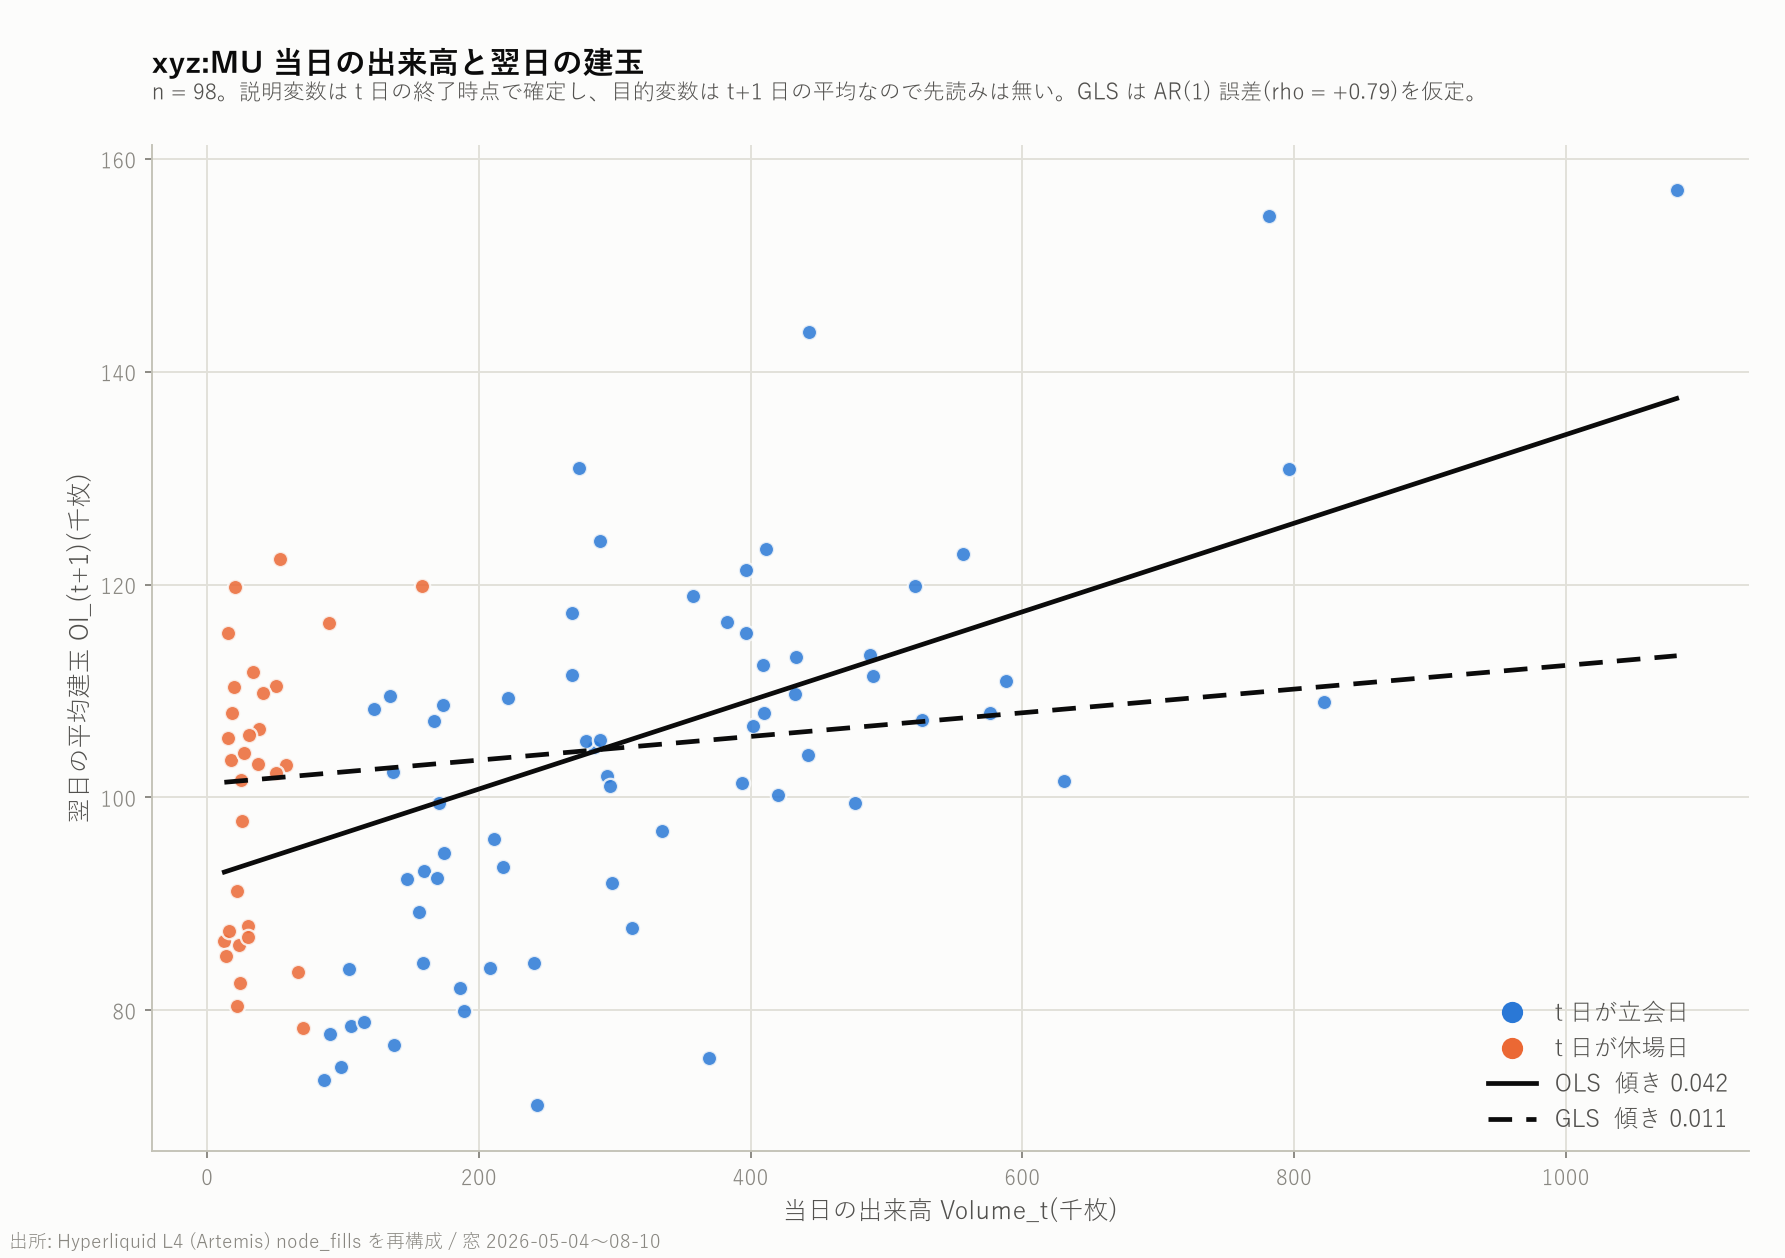
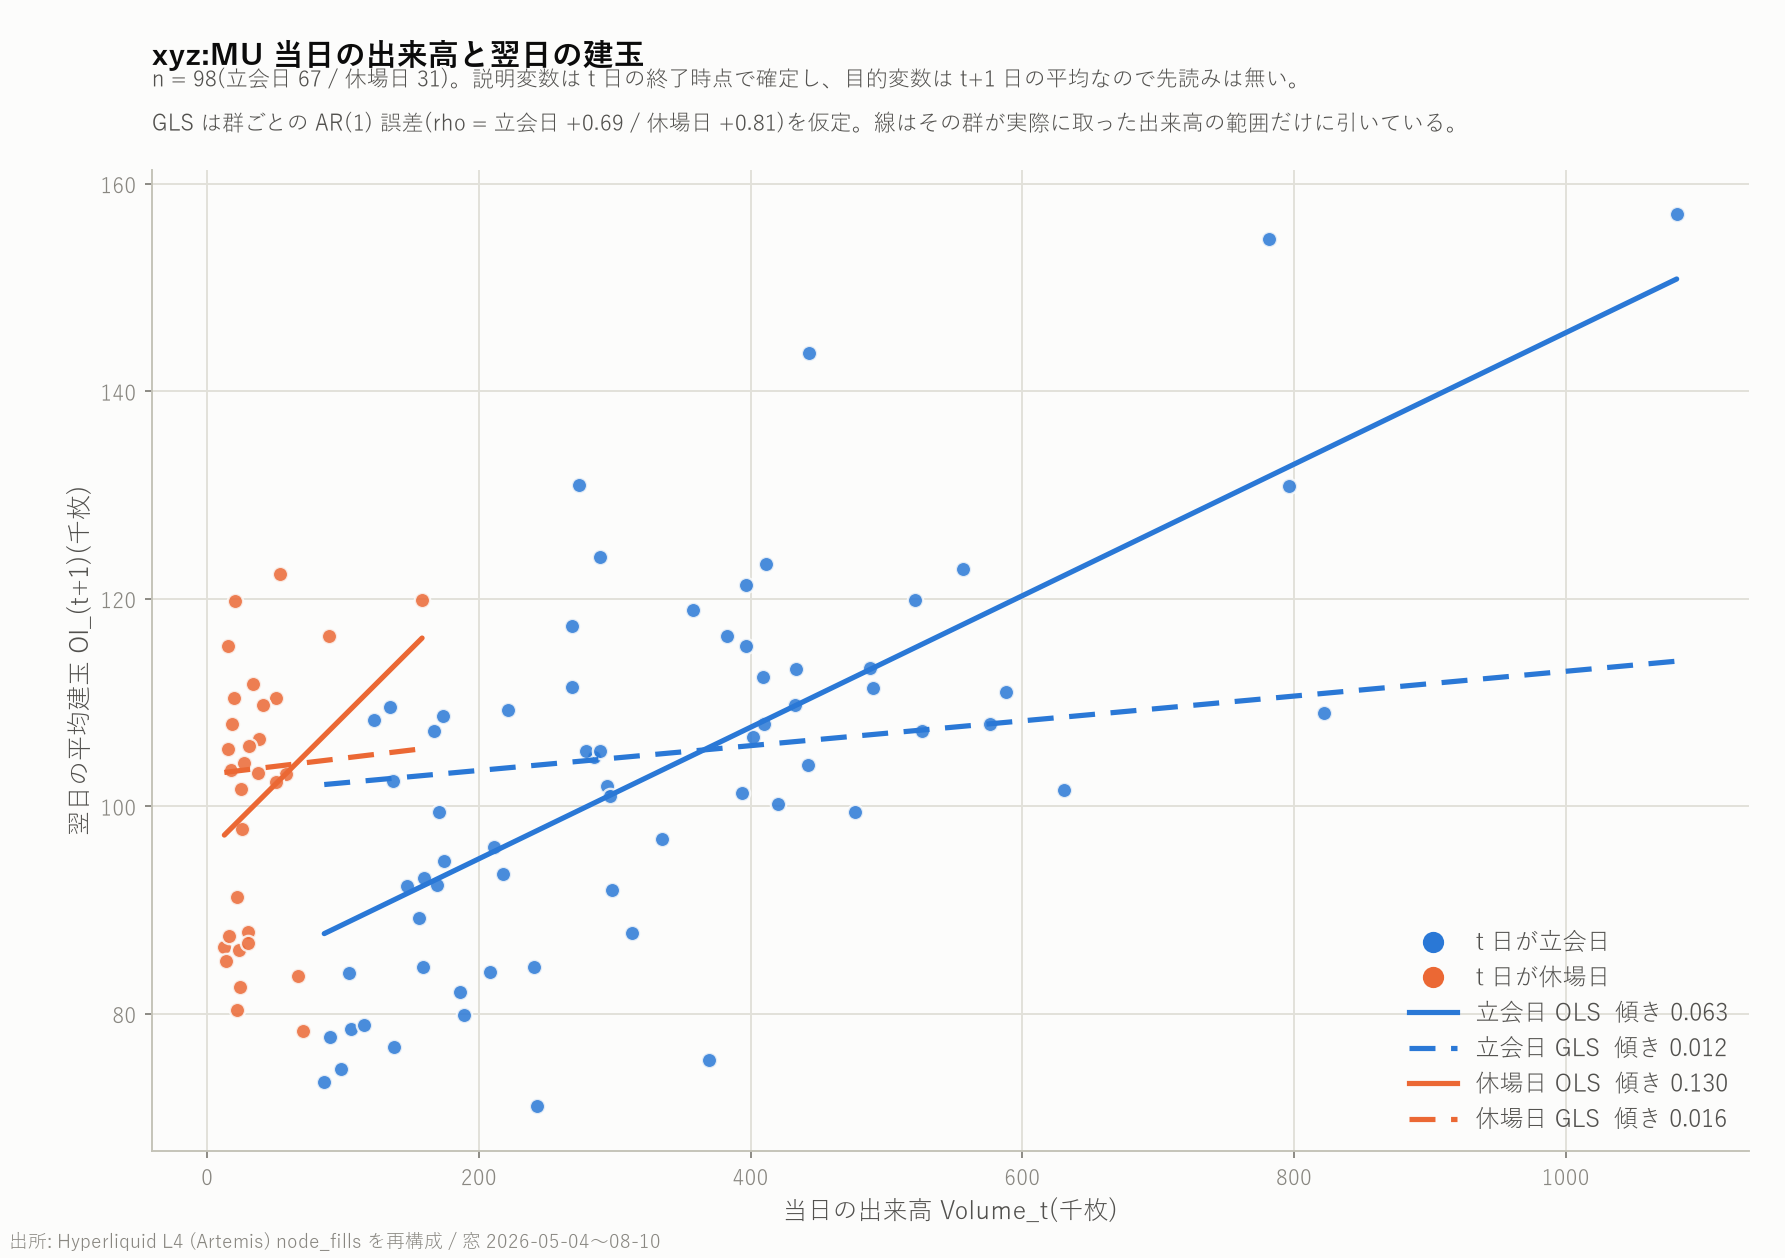
散布図を立会日・休場日それぞれの OLS と GLS に分け、数式の表示崩れを直す
回帰:
- 立会日 67 点と休場日 31 点に分けて当てはめ、4 本の線を引いた。線はその群が
  実際に取った出来高の範囲だけに引き、範囲外への外挿を見せない。
- どちらの群でも OLS と GLS で傾きが 5 倍以上違う(立会日 0.063 -> 0.012、
  休場日 0.131 -> 0.016)。群ごとの GLS はどちらも有意でなくなるが、これは
  標本が 98 から 67 と 31 に減って標準誤差が広がったためで、「関係が無い」
  ことの証拠ではない。この食い違いは隠さずレポートに明記した。

数式の表示:
- GitHub の Markdown は数式より先に強調記法を処理するため、$...$ の中の _ が
  斜体の開始記号として食われ、$\mathrm{Volume}_t$ が $\mathrm{Volume}t$ と
  表示されていた。GitHub 公式の回避策に揃え、インラインは $`...`$、
  ブロックは ```math フェンスへ変換した。
- 積の薄空白 \, がカンマとして描画されていたので普通の空白にした。
- 節番号の繰り上げに伴い古くなっていた「第 5 節」の相互参照を第 4 節へ修正。

Claude-Session: https://claude.ai/code/session_01LRpbaBB6gWtgo4ezmGPdRv

diff --git a/scripts/regress_oi_volume.py b/scripts/regress_oi_volume.py
@@ -105,13 +105,15 @@ def main() -> None:
         mark = "  <- 本来の対応" if k == 0 else ""
         print(f"  k={k:+d}: 傾き {f.params[1]:8.4f}  t {f.tvalues[1]:6.2f}  R2 {f.rsquared:.3f}{mark}")
 
-    # 立会日と休場日で出来高の水準が大きく違うので、群の分離が傾きを作っていないか確かめる
+    # 立会日と休場日で出来高の水準も性質も違うので、群ごとに別々に当てはめる。
+    # ここでの AR(1) は「その群の中で連続する観測」の間の相関を指す。立会日なら
+    # 連続する立会日どうし、休場日なら土・日・土… という並びになる点に注意。
     print()
-    print("=== 群ごとの回帰(群の分離が傾きを作っていないかの確認)===")
-    for lab, m in (("立会日のみ", open_t), ("休場日のみ", ~open_t)):
-        f = sm.OLS(y[m], sm.add_constant(x[m])).fit()
-        print(f"  {lab}(n={int(m.sum()):2d}): 傾き {f.params[1]:8.4f}  t {f.tvalues[1]:6.2f}  "
-              f"p {f.pvalues[1]:.3g}  R2 {f.rsquared:.3f}")
+    print("=== 群ごとの回帰(図に描く 4 本の線)===")
+    grp = {}
+    for lab, m in (("立会日", open_t), ("休場日", ~open_t)):
+        grp[lab] = fit_all(y[m], x[m])
+        show(f"{lab}のみ(n={int(m.sum())})", grp[lab])
 
     # --- 散布図 -------------------------------------------------------------
     mpl.rcParams.update({"font.family": ["Yu Gothic", "Meiryo", "sans-serif"],
@@ -127,25 +129,35 @@ def main() -> None:
     ax.scatter(x[~open_t] / 1e3, y[~open_t] / 1e3, s=42, color=CLOSED_C, alpha=0.85,
                edgecolors=SURFACE, linewidths=1.0, zorder=3)
 
-    xs = np.linspace(x.min(), x.max(), 100)
-    for f, ls, lab in ((main_fit["ols"], "-", "OLS"), (main_fit["gls"], (0, (5, 3)), "GLS")):
-        ax.plot(xs / 1e3, (f.params[0] + f.params[1] * xs) / 1e3, ls=ls, color=INK, lw=2.0, zorder=4)
-
-    o, gg = main_fit["ols"], main_fit["gls"]
-    ax.legend(handles=[
+    # 線は、その群が実際に取った出来高の範囲だけに引く。範囲外へ伸ばすと
+    # 観測の無いところを当てはめているように見えてしまうため。
+    DASH = (0, (5, 3))
+    handles = [
         Line2D([], [], marker="o", ls="", color=OPEN_C, markersize=8, label="t 日が立会日"),
         Line2D([], [], marker="o", ls="", color=CLOSED_C, markersize=8, label="t 日が休場日"),
-        Line2D([], [], color=INK, lw=2, label=f"OLS  傾き {o.params[1]:.3f}"),
-        Line2D([], [], color=INK, lw=2, ls=(0, (5, 3)), label=f"GLS  傾き {gg.params[1]:.3f}"),
-    ], loc="lower right", frameon=False, fontsize=10, labelcolor=INK2)
+    ]
+    for lab, m, col in (("立会日", open_t, OPEN_C), ("休場日", ~open_t, CLOSED_C)):
+        xs = np.linspace(x[m].min(), x[m].max(), 100)
+        for key, ls in (("ols", "-"), ("gls", DASH)):
+            f = grp[lab][key]
+            ax.plot(xs / 1e3, (f.params[0] + f.params[1] * xs) / 1e3, ls=ls, color=col,
+                    lw=2.2, zorder=4, solid_capstyle="round")
+            handles.append(Line2D([], [], color=col, lw=2.2, ls=ls,
+                                  label=f"{lab} {key.upper()}  傾き {f.params[1]:.3f}"))
+
+    ax.legend(handles=handles, loc="lower right", frameon=False, fontsize=10, labelcolor=INK2)
 
     ax.set_xlabel("当日の出来高 Volume_t(千枚)", color=INK2, fontsize=10.5)
     ax.set_ylabel("翌日の平均建玉 OI_(t+1)(千枚)", color=INK2, fontsize=10.5)
     ax.set_title(f"{a.coin} 当日の出来高と翌日の建玉", loc="left", color=INK, fontsize=13,
-                 pad=30, weight="bold")
-    ax.text(0, 1.045,
-            f"n = {len(x)}。説明変数は t 日の終了時点で確定し、目的変数は t+1 日の平均なので先読みは無い。"
-            f"GLS は AR(1) 誤差(rho = {main_fit['rho']:+.2f})を仮定。",
+                 pad=44, weight="bold")
+    ax.text(0, 1.085,
+            f"n = {len(x)}(立会日 {int(open_t.sum())} / 休場日 {int((~open_t).sum())})。"
+            "説明変数は t 日の終了時点で確定し、目的変数は t+1 日の平均なので先読みは無い。",
+            transform=ax.transAxes, color=INK2, fontsize=9.5)
+    ax.text(0, 1.040,
+            f"GLS は群ごとの AR(1) 誤差(rho = 立会日 {grp['立会日']['rho']:+.2f} / "
+            f"休場日 {grp['休場日']['rho']:+.2f})を仮定。線はその群が実際に取った出来高の範囲だけに引いている。",
             transform=ax.transAxes, color=INK2, fontsize=9.5)
     for s in ("top", "right"):
         ax.spines[s].set_visible(False)
@@ -155,7 +167,7 @@ def main() -> None:
     ax.tick_params(colors=MUTED, labelsize=9, length=3, width=0.8)
     fig.text(0.005, 0.008, "出所: Hyperliquid L4 (Artemis) node_fills を再構成 / 窓 2026-05-04〜08-10",
              color=MUTED, fontsize=8)
-    fig.subplots_adjust(left=0.085, right=0.98, top=0.885, bottom=0.085)
+    fig.subplots_adjust(left=0.085, right=0.98, top=0.865, bottom=0.085)
     out = ROOT / "charts" / f"{tag}_scatter_oi_volume.png"
     fig.savefig(out)
     print(f"\n[chart] {out}")

diff --git a/reports/MU/mu_oi_volume_report.md b/reports/MU/mu_oi_volume_report.md
@@ -35,7 +35,7 @@
 | 取引数(平均) | 144,372 | 43,789 | 30.3% |
 | 参加ユーザー(平均) | 1,988 | 831 | 41.8% |
 | 平均建玉(枚) | 103,236 | 99,162 | 96.1% |
-| 建玉の日次変化 $\lvert \Delta \rvert$(終値ベース) | 11,025 枚 | 1,377 枚 | **12.5%** |
+| 建玉の日次変化 $`\lvert \Delta \rvert`$(終値ベース) | 11,025 枚 | 1,377 枚 | **12.5%** |
 
 **建玉は休場日にほとんど動かない。** 出来高は 1/8.7 に落ちるのに OI 水準は 96% を保ち、
 日次の建玉変化は立会日の約12％程度。休場日に起きているのは主に既存ポジションの
@@ -46,23 +46,23 @@
 取引所が公表する建玉のスナップショットを保有していないため、約定記録に含まれる
 「約定直前の保有量」から、参加者ごとの保有量の推移を復元した。
 
-参加者 $u$ のある約定について、記録されている約定直前の保有量を $s_u$、約定数量を $z$、
-売買の向きを $\varepsilon$ とすると、約定直後の保有量 $q_u^{\mathrm{after}}$ は次で決まる。
+参加者 $`u`$ のある約定について、記録されている約定直前の保有量を $`s_u`$、約定数量を $`z`$、
+売買の向きを $`\varepsilon`$ とすると、約定直後の保有量 $`q_u^{\mathrm{after}}`$ は次で決まる。
 
-$$
+```math
 q_u^{\mathrm{before}} = s_u, \qquad
 q_u^{\mathrm{after}} = s_u + \varepsilon z, \qquad
 \varepsilon = \begin{cases} +1 & (\text{買い}) \\ -1 & (\text{売り}) \end{cases}
-$$
+```
 
 これを全参加者について時系列に積み上げ、買い持ちだけを合計したものが建玉である。
 
-$$
+```math
 \mathrm{OI}(t) = \sum_{u} \max\bigl(q_u(t),\, 0\bigr)
-$$
+```
 
 同一の参加者が同一時刻(ナノ秒)に複数の約定を持つ場合、記録の行順が定まらない。
-そこで時刻単位でまとめ、買い越しの組では入口を $\min s_u$、出口を $\max q_u^{\mathrm{after}}$、
+そこで時刻単位でまとめ、買い越しの組では入口を $`\min s_u`$、出口を $`\max q_u^{\mathrm{after}}`$、
 売り越しの組ではその逆として、組の入口と出口を決めた。
 
 ### 検証
@@ -70,8 +70,8 @@ $$
 | # | 検証 | 結果 |
 |---|---|---|
 | V1 | `dir`(Open Long / Close Short / Long > Short …)と (startPosition, side) から導いた向きの一致 | **22,349,510 行すべて一致(100%)** |
-| V2 | 同一時刻の組で $q^{\mathrm{出}} = q^{\mathrm{入}} + \sum \varepsilon z$ が成り立つか | 片方向グループ(全体の 99.05%)の 98.5% で成立 |
-| V3 | 約定を伴わない建玉の飛び | 全 14,312,014 遷移の **0.248%**、飛びの総量 $\sum \lvert \Delta \rvert = 245{,}030$ 枚(総取引量の 0.52%) |
+| V2 | 同一時刻の組で $`q^{\mathrm{出}} = q^{\mathrm{入}} + \sum \varepsilon z`$ が成り立つか | 片方向グループ(全体の 99.05%)の 98.5% で成立 |
+| V3 | 約定を伴わない建玉の飛び | 全 14,312,014 遷移の **0.248%**、飛びの総量 $`\sum \lvert \Delta \rvert = 245{,}030`$ 枚(総取引量の 0.52%) |
 | V4 | 窓開始のネット建玉(理論値 0) | **+2,934 枚**(当時の OI 49,438 枚の 5.9%) |
 | V5 | ロング側とショート側を独立に復元したときの食い違い | 平均 ±2.0% / 最大 11%(07-30 に段差) |
 | V6 | 外部突合(Hyperliquid 公開 API, 2026-08-27 時点) | 取引所公表の建玉 = 151,882 枚(148.5M ドル)。本復元の窓終端(08-10)は 105,539 枚(92.3M ドル)で、17 日後の公表値と桁・水準が整合 |
